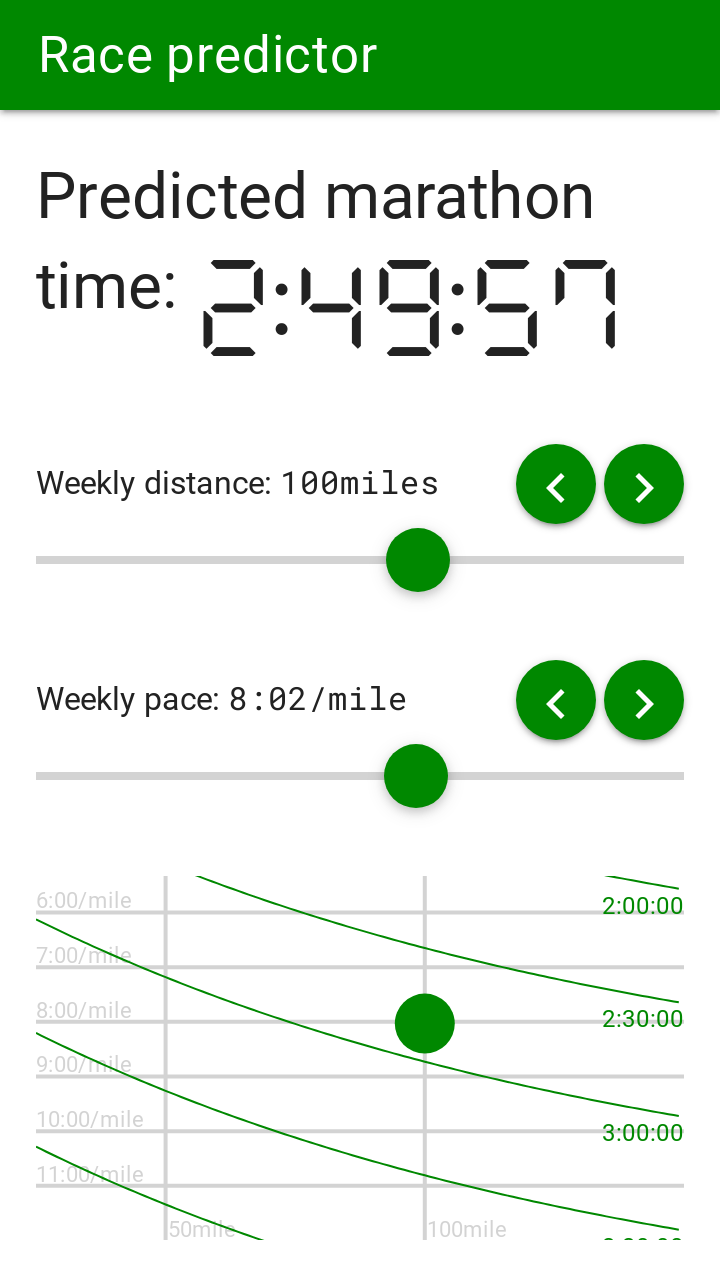
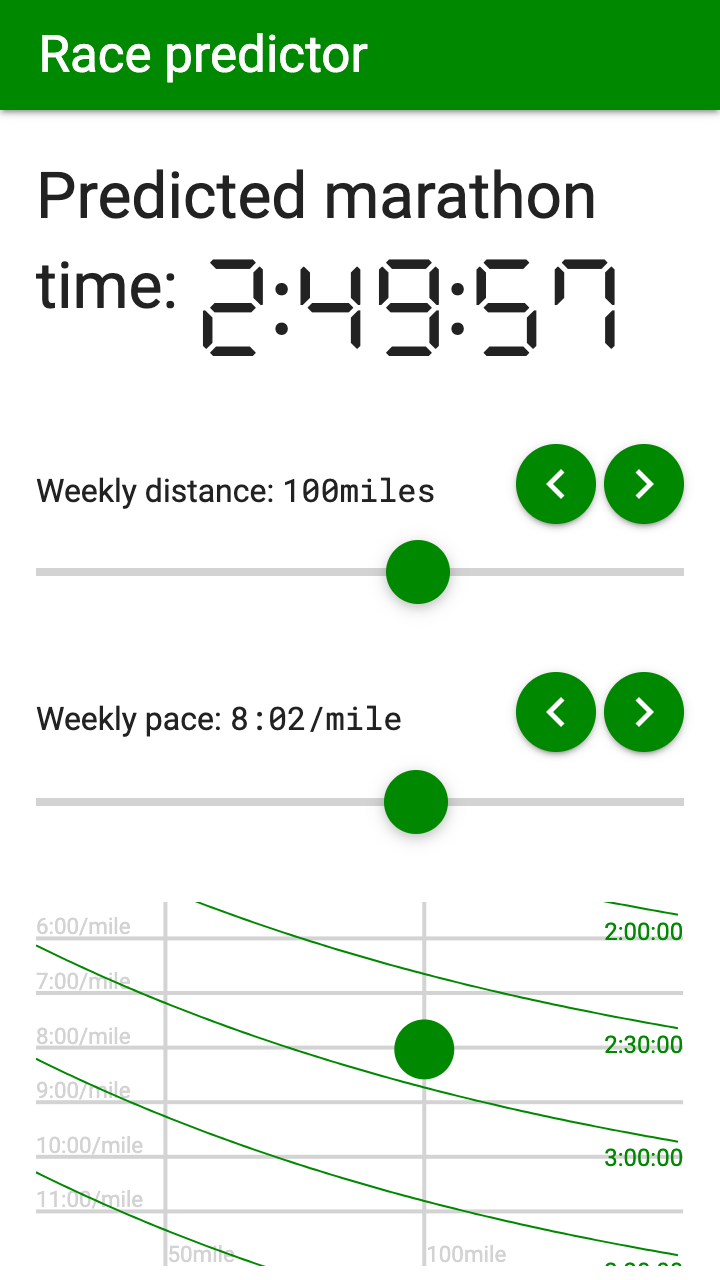
Release 3.5.0
Add Pace Table function
Generate screenshots of the Pace Table
Update instructions

diff --git a/playwright/tests/generateScreenshots.spec.js b/playwright/tests/generateScreenshots.spec.js
@@ -6,7 +6,7 @@ const test = base.extend({
 export { test };
 
 test.describe('Generate screenshots using Playwright', () => {
-  const url = 'http://localhost:63342/crtools/static/';
+  const url = 'http://localhost:63342/FreshLegsMonday/static/';
   const now = new Date()
   const time = now.getTime();
   const expiry = time/1000 + 60;
@@ -20,6 +20,10 @@ test.describe('Generate screenshots using Playwright', () => {
     await context.addCookies([appPlatformCookie]);
     await page.goto(url);
     await page.screenshot({ path: '../static/img/' + store + '/' + name + '.png' });
+    if (name !== 'feature-graphic') {
+      await scrollToBottom(page);
+      await page.screenshot({path: '../static/img/' + store + '/' + name + ' lower.png'});
+    }
   })
 
   test('Device screenshot miles', async ({ page, context, store }) => {
@@ -32,7 +36,19 @@ test.describe('Generate screenshots using Playwright', () => {
       await milesButton.evaluate((node) => { node.click() });
       await page.waitForTimeout(500);
       await page.screenshot({ path: '../static/img/' + store + '/' + name + '.png' });
+      await scrollToBottom(page);
+      await page.screenshot({ path: '../static/img/' + store + '/' + name + ' lower.png' });
     }
   })
 
 })
+
+async function scrollToBottom(page) {
+    await page.evaluate(async () => {
+      for (let i = 0;  i < 10 && window.scrollY * i < window.document.documentElement.scrollHeight; i++) {
+        const delay = ms => new Promise(resolve => setTimeout(resolve, ms))
+        window.scrollTo(0, window.scrollY + window.document.documentElement.clientHeight);
+        await delay(100);
+      }
+    });
+}

diff --git a/playwright/playwright.config.js b/playwright/playwright.config.js
@@ -19,13 +19,13 @@ module.exports = defineConfig({
   /* Shared settings for all the projects below. See https://playwright.dev/docs/api/class-testoptions. */
   use: {
     /* Base URL to use in actions like `await page.goto('/')`. */
-    baseURL: 'http://localhost:63342/crtools/static/',
+    baseURL: 'http://localhost:63342/FreshLegsMonday/static/',
 
     /* Collect trace when retrying the failed test. See https://playwright.dev/docs/trace-viewer */
     trace: 'on-first-retry',
   },
 
-  /* Configure projects for major browsers */
+  /* Configure projects for major browsers - more devices: https://github.com/microsoft/playwright/blob/main/packages/playwright-core/src/server/deviceDescriptorsSource.json */
   projects: [
     {
       name: 'feature-graphic',
@@ -76,14 +76,6 @@ module.exports = defineConfig({
       use: {
         ...devices['iPhone 14 Pro Max'],
         viewport: { width: 430, height: 932 },
-        store: 'AppleAppStore',
-      },
-    },
-    {
-      name: 'iPhone 6.5"',
-      use: {
-        ...devices['iPhone 14 Plus'],
-        viewport: { width: 428, height: 926 },
         store: 'AppleAppStore',
       },
     },

diff --git a/doc/appStores.md b/doc/appStores.md
@@ -9,22 +9,20 @@ The native apps are a Trusted Web Activity (TWA) apps made from the web app (the
 7. Make commit(s) of any outstanding changes and push to GitHub
 
 ## Apple App Store
-1. Fire up the Mac (option `Macintosh SSD`) with
-```shell
-sudo ./basic.sh
-```
-2. From the Mac use [PWABuilder](https://www.pwabuilder.com/reportcard?site=https://freshlegsmonday.com/) to generate an iOS package
-   1. Set the `Bundle ID` to com.freshlegsmonday
-   2. Update `App name` to `Fresh Legs Monday`
-   3. Open `All Settings` and set `Image URL` to `/img/favicons/icon-apple-1024x1024.png`
-   4. Follow [publishing instructions](https://docs.pwabuilder.com/#/builder/app-store?id=publishing)
+From the Mac use [PWABuilder](https://www.pwabuilder.com/reportcard?site=https://freshlegsmonday.com/) to generate an iOS package
+1. Set the `Bundle ID` to com.freshlegsmonday
+2. Update `App name` to `Fresh Legs Monday`
+3. Open `All Settings` and set `Image URL` to `/img/favicons/icon-apple-1024x1024.png`
+4. Follow [publishing instructions](https://docs.pwabuilder.com/#/builder/app-store?id=publishing)
    Note 1: the Apple-friendly icon should be downloaded to `~/FreshLegsMonday/static/img/favicons` with:
    ```shell
    wget https://freshlegsmonday.com/img/favicons/apple-icon-1024x1024.png
    ```
    Note 2: Project Navigator > Assets > AppIcon > App Store iOS 1024 -> change the image to the apple-icon-1024x1024.png
    Note 3: the product Archives are accessible via Window > Organizer
-   5. To distribute the Archive, US English might be required, otherwise Apple will say that the app already exists...
+5. To distribute the Archive, US English might be required, otherwise Apple will say that the app already exists...
+
+Note `Command PhaseScriptExecution failed with a nonzero exit code` during XCode Archiving is solved by Disabling `User Script Sandboxing`
 
 | App Name: | FreshLegsMonday |
 | - | - |
@@ -38,18 +36,16 @@ sudo ./basic.sh
 The Play Store is for Android and Chromebook Apps.
 
 1. Use [PWABuilder](https://www.pwabuilder.com/reportcard?site=https://freshlegsmonday.com/) to generate an Android package
-   1. Update `App name` to `Fresh Legs Monday`
-   2. Update `Version` to that in the `site.webmanifest`
-   3. Increment `Version code` compared to that in the Play Store
-   4. Disable `Notification delegation`
-   5. Disable `Location delegation`
-   6. Set `Signing key` to `Use mine`
-   7. For `Key file` upload the `android.keystore`
-   8. Set `Key alias` to `android`
-   9. The `Key password` and `Key store password` are in the password manager
+   1. Update `Version` to that in the `site.webmanifest`
+   2. Increment `Version code` compared to that in the Play Store (>12)
+   3. Disable `Notification delegation`
+   4. Set `Signing key` to `Use mine`
+   5. For `Key file` upload the `android.keystore`
+   6. Set `Key alias` to `android`
+   7. The `Key password` and `Key store password` are in the password manager
 2. Upload the .aab bundle to https://play.google.com/console/u/0/developers/
-3. Chose a `Release name`
-4. Write the `Release notes`
+3. Choose a `Release name`
+4. Write the `Release notes` (see previous releases)
 5. Click through everything
 6. Update Play Store listing, e.g. screenshots
 
@@ -58,5 +54,5 @@ For Windows devices
 
 1. Use [PWABuilder](https://www.pwabuilder.com/reportcard?site=https://freshlegsmonday.com/) to generate a package
    1. Copy the IDs from [Microsoft Partner Centre](https://partner.microsoft.com/en-us/dashboard/products/9PPBNZGK4RXW/identity)
-   2. `Classic app version` should be 1.0.0
-   3.
+   2. 'App version' should be the latest version, e.g. 3.4.0
+   3. `Classic app version` should be 1.0.1

diff --git a/doc/playwright.md b/doc/playwright.md
@@ -10,9 +10,12 @@ See Apple developer documentation for [screenshot sizes](https://developer.apple
 ### Set up Playwright
 Use npm to install [PlayWright](https://playwright.dev/docs/intro) selecting JavaScript and /tests for the testing directory.
 Install the Playwright Chromium browser dependency.
+Ensure that the server will allow requests from PlayWright, e.g. that PyCharm will allow unsigned requests.
+Install ImageMagick (to remove the alpha channel from Apple App Store images)
 
 ### Create screenshots
-```commandline
+```shell
 cd playwright
 npx playwright test
+mogrify -background white -alpha remove -alpha off ../static/img/AppleAppStore/*.png
 ```

diff --git a/doc/FLM.md b/doc/FLM.md
@@ -20,11 +20,12 @@ To create the apps, see [appStores.md](appStores)
 
 ### Description
 Fresh Legs Monday allows you to predict your Marathon finish time using the distance and pace that you typically run each week. You can use this app to guide your weekly training to achieve your target Marathon time.
+There is also a Marathon splits table to guide your pacing on race day!
 
 ### Promotional text
 *<=170 char for Apple App Store*
 
-Marathon time predictor
+Marathon time predictor and splits table
 
 ### Keywords
 Marathon Running
